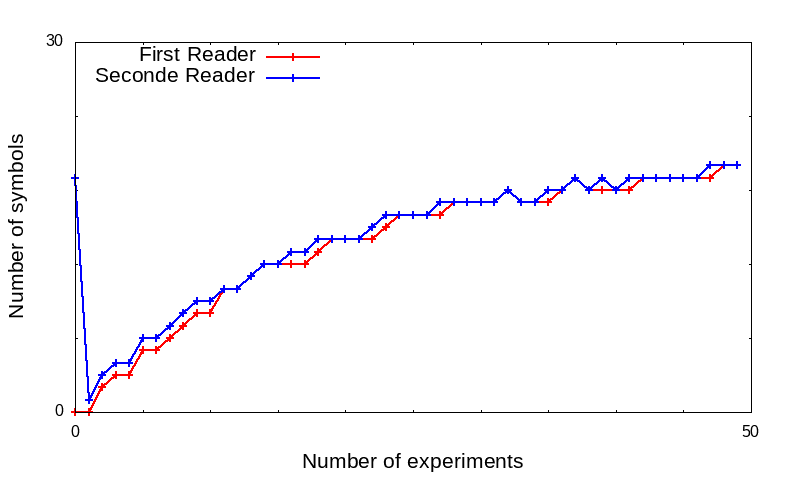
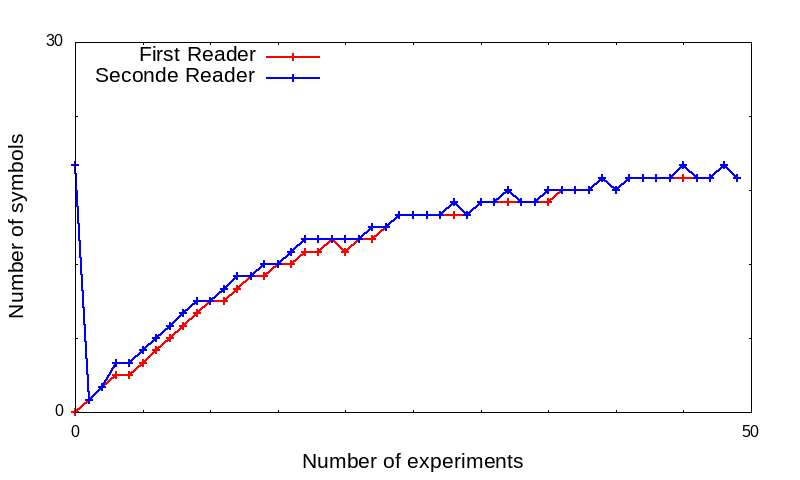
Forgot to change variables. Fixed it

diff --git a/Sem-2/Lab-1/src/readWrite_v4.c b/Sem-2/Lab-1/src/readWrite_v4.c
@@ -4,66 +4,65 @@
 #include <stdlib.h>
 #include <time.h>
 
-const int experiment = 50;					// Amount of tries in one experiment
-const int measuring = 1000;					// Amount of measurings in one try
-const int alphabet = 26;						// Length of the given alphabet (Default: Eng - 26 letters)
+const int exp_size = 50;
+const int symbols = 26;
 
-void readersCall(float readersData[2][experiment]) {
-	int firstReaderAvg;
-	int secondReaderAvg;
-	int firstReader;
-	int secondReader;
-	int GodBlessRNG;
+void readersCall(float readersData[2][exp_size]) {
+	int readerFthread_mean;
+	int readerSthread_mean;
+	int fthread_local;
+	int sthread_local;
+	int ps_random;
 
-	for (int attempt = 1; attempt <= experiment+1; attempt++) {
-		firstReaderAvg = 0;						// Average amount of read letters for the first reader's stream
-		secondReaderAvg = 0;					// Average amount of read letters for the second reader's stream
-		for (int cnt = 1; cnt <= measuring+1; cnt++) {
-			firstReader = 0;						// Amount of read letters for the first reader's stream on the current measuring
-			secondReader = 0;						// Amount of read letters for the second reader's stream on the current measuring
-			GodBlessRNG = 1;						// RND number for deciding when we need to end current measuring
-			while (GodBlessRNG != 0) {
-				GodBlessRNG = rand() % 100;
-				if (((1 <= GodBlessRNG) && (GodBlessRNG < attempt)) && (firstReader + 1 <= alphabet)) {
-					firstReader += 1;
-				} else if (((attempt <= GodBlessRNG) && (GodBlessRNG < (2 * attempt))) && (secondReader + 1 <= alphabet)) {
-					secondReader += 1;
+	for (int attempt = 1; attempt <= exp_size+1; attempt++) {
+		readerFthread_mean = 0;
+		readerSthread_mean = 0;
+		for (int cnt = 1; cnt <= 1001; cnt++) {
+			fthread_local = 0;
+			sthread_local = 0;
+			ps_random = 1;
+			while (ps_random != 0) {
+				ps_random = rand() % 100;
+				if (((1 <= ps_random) && (ps_random < attempt)) && (fthread_local + 1 <= symbols)) {
+					fthread_local += 1;
+				} else if (((attempt <= ps_random) && (ps_random < (2 * attempt))) && (sthread_local + 1 <= symbols)) {
+					sthread_local += 1;
 				}
 			}
-			firstReaderAvg += firstReader;
-			secondReaderAvg += secondReader;
+			readerFthread_mean += fthread_local;
+			readerSthread_mean += sthread_local;
 		}
-		readersData[0][attempt - 1] = firstReaderAvg / 1000;
-		readersData[1][attempt - 1] = secondReaderAvg / 1000;
+		readersData[0][attempt - 1] = readerFthread_mean / 1000;
+		readersData[1][attempt - 1] = readerSthread_mean / 1000;
 	}
 }
 
-void dataSave(float data[2][experiment]) {
-	FILE* firstReader;
-	FILE* secondReader;
-	char* firstFile = "data/fr.dat";
-	char* secondFile = "data/sr.dat";
+void dataSave(float data[2][exp_size]) {
+	FILE* FReader;
+	FILE* SReader;
+	char* FFile = "data/fr.dat";
+	char* SFile = "data/sr.dat";
 
-	firstReader = fopen(firstFile	,"w+");
-	if (firstReader == NULL) {
+	FReader = fopen(FFile	,"w+");
+	if (FReader == NULL) {
 		exit(EXIT_FAILURE);
 	}
-	for (int i = 0; i < experiment; ++i)
-		fprintf(firstReader, "%d\t%f\n", i, data[0][i]);
-	fclose(firstReader);
+	for (int i = 0; i < exp_size; ++i)
+		fprintf(FReader, "%d\t%f\n", i, data[0][i]);
+	fclose(FReader);
 
-	secondReader = fopen(secondFile,"w+");
-	if (secondReader == NULL) {
+	SReader = fopen(SFile,"w+");
+	if (SReader == NULL) {
 		exit(EXIT_FAILURE);
 	}
-	for (int i = 0; i < experiment; ++i)
-		fprintf(secondReader, "%d\t%f\n", i, data[1][i]);
-	fclose(secondReader);
+	for (int i = 0; i < exp_size; ++i)
+		fprintf(SReader, "%d\t%f\n", i, data[1][i]);
+	fclose(SReader);
 }
 
 int main(int argc, char const *argv[]) {
 	srand(time(NULL));
-	float data[2][experiment];
+	float data[2][exp_size];
 	readersCall(data);
 	dataSave(data);
 	return EXIT_SUCCESS;
